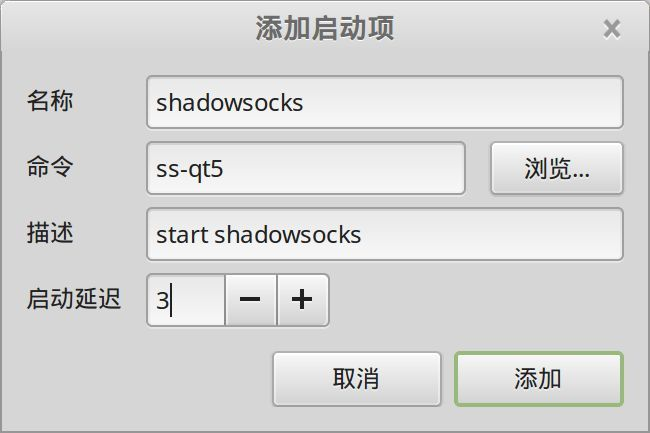
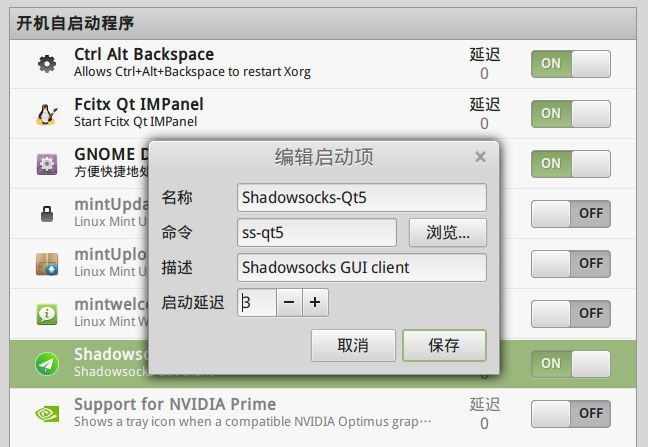
update for shadowsocks and fcitx

diff --git a/daily/tool/sougou_input.md b/daily/tool/sougou_input.md
@@ -2,8 +2,6 @@
 
 tags:输入法
 
-Linux Mint 18 是基于 ubuntu 16.04，比较新，之前的 搜狗输入法 安装方式无法使用，因此需要另想办法
-
 ## 安装
 
 安装步骤如下：
@@ -12,31 +10,15 @@ Linux Mint 18 是基于 ubuntu 16.04，比较新，之前的 搜狗输入法 安
 
 	http://pinyin.sogou.com/linux/?r=pinyin
 
-	最新版本已经支持 Ubuntu12.04、14.04及16.04。
+	最新版本已经支持 Ubuntu12.04、14.04及16.04，而且对 linux mint 18 的支持非常好。
 
 2. 在终端中执行命令：
 
 	```bash
-	sudo dpkg -i sogoupinyin_2.0.0.0072_amd64.deb
+	sudo dpkg -i sogoupinyin_2.1.0.0086_amd64.deb
     ```
 
-    安装过程中会因为缺少依赖包而失败。
-
-3. 安装依赖，在终端输入：
-
-	```bash
-	sudo apt-get install -f
-    ```
-
-	安装所有缺失的依赖关系。
-
-4. 再次输入命令
-
-	```bash
-	sudo dpkg -i sogoupinyin_2.0.0.0072_amd64.deb
-    ```
-
-5. 重启系统，完成安装
+3. 重启系统，完成安装
 
 安装完成之后，在设置时会提示：
 
@@ -54,10 +36,17 @@ sudo apt-get install fcitx-config-gtk
 
 ![](images/fcitx.jpg)
 
-但是显示 "缺少13个部件"，点击 "安装缺失的部件"。安装完成之后，继续报告说 "48个可选部件可用"：
+打开 "开始菜单" -> "首选项" -> "Fcitx 配置", 设置如下：
 
-![](images/fcitx_2.jpg)
+![](images/fcitx-2.jpg)
 
-如果继续安装，则会下载安装下面的内容，看名字时其他各种输入法，感觉没有必要，可以直接点 cancel 中断。
+"Global Config" 里面可以看到相关的设置：
 
-![](images/fcitx_3.jpg)
+![](images/fcitx-3.jpg)
+
+部分细节：
+
+1. 切换输入法的快捷键是 `Ctrl+Space`
+2. 上一页的快捷键是 `-` 或者 `,`
+3. 下一页的快捷键是 `=` 或者 `.`
+4. "Candidate Word Number"用来设置候选词的个数

diff --git a/daily/network/shadowsocks.md b/daily/network/shadowsocks.md
@@ -26,6 +26,6 @@ ss-qt5
 
 ### 开机自启动
 
-为 shadowsocks 添加开机自动启动：
+为 shadowsocks 添加开机自动启动, "开始菜单" -> "首选项" -> "开机自启动程序", 点 "添加" --> "选择程序"，找到 "Shadowsocks-Qt5",添加后再修改启动延迟：
 
 ![](images/shadowsocks_startup.jpg)
